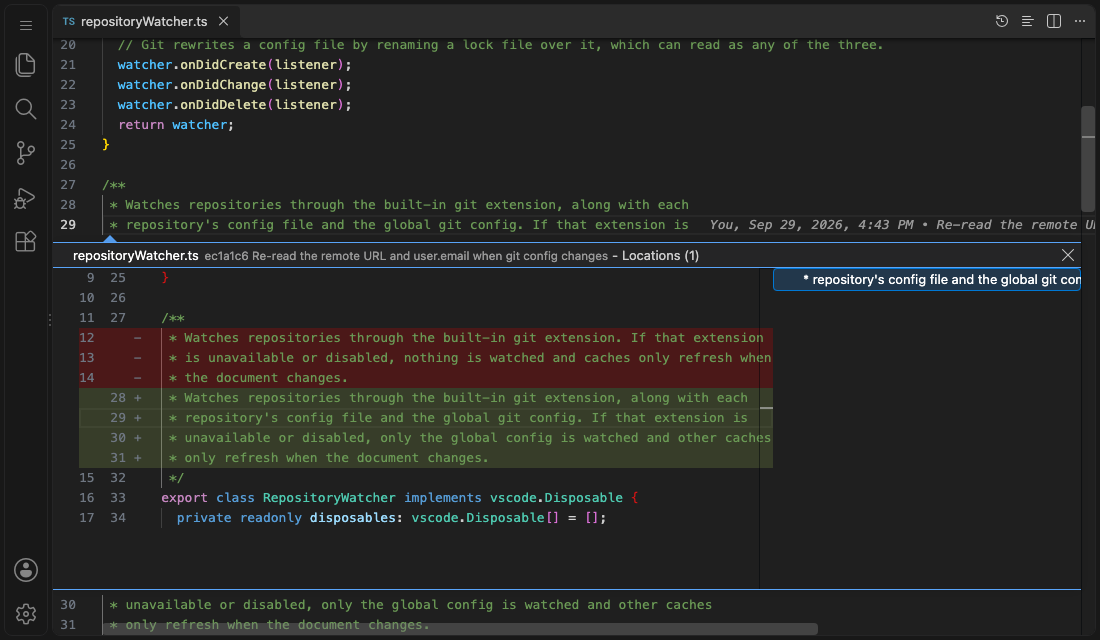
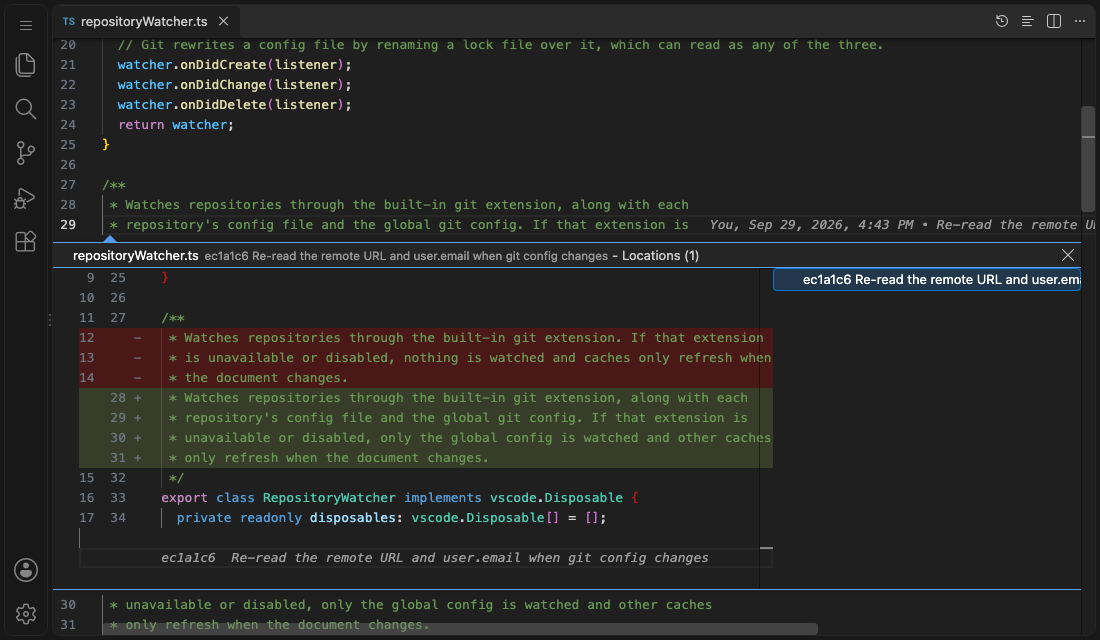
Name the commit in the change peek's list
The peek's list shows the text of each location's line, so the block now
ends with a footer line holding the commit's hash and subject, and the
location points at it. The peek then scrolls back to the block's start,
or to the hovered line when the block is taller than the peek.

Changed region(s): [[0.7418, 0.4062, 0.9582, 0.4688], [0.1545, 0.8438, 0.5255, 0.875], [0.5564, 0.8438, 0.6491, 0.875]]

diff --git a/src/peek/changePeek.ts b/src/peek/changePeek.ts
@@ -17,6 +17,8 @@ export interface ChangePeekRequest {
   focusNewLine: number;
   /** Shown after the file name in the peek's title. */
   description: string;
+  /** Shown under the block, and as the entry in the peek's list on the right. */
+  footer: string;
   fileName: string;
   languageId: string;
 }
@@ -28,7 +30,7 @@ export interface ChangePeekRequest {
  * of the lines without their +/- markers, highlighted as the file's language.
  */
 export class ChangePeek implements vscode.TextDocumentContentProvider, vscode.Disposable {
-  private readonly blocks = new Map<string, PeekLine[]>();
+  private readonly blocks = new Map<string, { lines: PeekLine[]; footer: string }>();
   private readonly disposables: vscode.Disposable[] = [];
   private readonly added = vscode.window.createTextEditorDecorationType({
     isWholeLine: true,
@@ -37,6 +39,10 @@ export class ChangePeek implements vscode.TextDocumentContentProvider, vscode.Di
   private readonly removed = vscode.window.createTextEditorDecorationType({
     isWholeLine: true,
     backgroundColor: new vscode.ThemeColor('diffEditor.removedLineBackground'),
+  });
+  private readonly footer = vscode.window.createTextEditorDecorationType({
+    color: new vscode.ThemeColor('descriptionForeground'),
+    fontStyle: 'italic',
   });
   private readonly gutter = vscode.window.createTextEditorDecorationType({
     before: { color: new vscode.ThemeColor('editorLineNumber.foreground'), margin: '0 1.5em 0 0' },
@@ -51,6 +57,7 @@ export class ChangePeek implements vscode.TextDocumentContentProvider, vscode.Di
       vscode.workspace.onDidCloseTextDocument((document) => this.blocks.delete(document.uri.toString())),
       this.added,
       this.removed,
+      this.footer,
       this.gutter,
     );
   }
@@ -61,7 +68,8 @@ export class ChangePeek implements vscode.TextDocumentContentProvider, vscode.Di
   }
 
   provideTextDocumentContent(uri: vscode.Uri): string {
-    return (this.blocks.get(uri.toString()) ?? []).map((line) => line.text).join('\n');
+    const block = this.blocks.get(uri.toString());
+    return block ? [...block.lines.map((line) => line.text), '', block.footer].join('\n') : '';
   }
 
   async show(request: ChangePeekRequest): Promise<void> {
@@ -75,7 +83,7 @@ export class ChangePeek implements vscode.TextDocumentContentProvider, vscode.Di
       path: `${request.description.replace(/\//g, '∕')}/${request.fileName}`,
       query: String(this.next++),
     });
-    this.blocks.set(uri.toString(), lines);
+    this.blocks.set(uri.toString(), { lines, footer: request.footer });
     const document = await vscode.workspace.openTextDocument(uri);
     try {
       await vscode.languages.setTextDocumentLanguage(document, request.languageId);
@@ -86,21 +94,37 @@ export class ChangePeek implements vscode.TextDocumentContentProvider, vscode.Di
       0,
       lines.findIndex((line) => line.newLine === request.focusNewLine),
     );
+    // The list on the right shows the text of the location's line, so the location is the footer, after a blank line.
+    const footerLine = lines.length + 1;
     await vscode.commands.executeCommand(
       'editor.action.peekLocations',
       request.sourceUri,
       new vscode.Position(request.sourceLine, 0),
-      [new vscode.Location(uri, new vscode.Position(focus, 0))],
+      [new vscode.Location(uri, new vscode.Position(footerLine, 0))],
       'peek',
     );
-    vscode.window.visibleTextEditors.forEach((editor) => this.decorate(editor));
+    for (const editor of vscode.window.visibleTextEditors) {
+      this.decorate(editor);
+      if (editor.document.uri.toString() === uri.toString()) {
+        // Opening at the footer scrolls the block's start out of view: show it from the top when the hovered
+        // line fits on the first screen, and center the hovered line otherwise.
+        const visible = editor.visibleRanges[0];
+        const height = visible ? visible.end.line - visible.start.line : 0;
+        if (focus < height) {
+          editor.revealRange(new vscode.Range(0, 0, 0, 0), vscode.TextEditorRevealType.AtTop);
+        } else {
+          editor.revealRange(new vscode.Range(focus, 0, focus, 0), vscode.TextEditorRevealType.InCenter);
+        }
+      }
+    }
   }
 
   private decorate(editor: vscode.TextEditor): void {
-    const lines = this.blocks.get(editor.document.uri.toString());
-    if (!lines) {
+    const block = this.blocks.get(editor.document.uri.toString());
+    if (!block) {
       return;
     }
+    const { lines } = block;
     // The block's own line numbers mean nothing; the gutter shows the file's instead.
     editor.options = { lineNumbers: vscode.TextEditorLineNumbersStyle.Off };
     const width = Math.max(...lines.map((line) => String(Math.max(line.oldLine ?? 0, line.newLine ?? 0)).length));
@@ -109,15 +133,19 @@ export class ChangePeek implements vscode.TextDocumentContentProvider, vscode.Di
       lines.flatMap((line, i) => (line.kind === kind ? [new vscode.Range(i, 0, i, 0)] : []));
     editor.setDecorations(this.added, rangesOf('add'));
     editor.setDecorations(this.removed, rangesOf('del'));
-    editor.setDecorations(
-      this.gutter,
-      lines.map((line, i) => ({
+    editor.setDecorations(this.footer, [new vscode.Range(lines.length + 1, 0, lines.length + 1, block.footer.length)]);
+    const gutterText = (line: PeekLine) => `${pad(line.oldLine)}${NBSP}${NBSP}${pad(line.newLine)}${NBSP}${MARKERS[line.kind]}`;
+    editor.setDecorations(this.gutter, [
+      ...lines.map((line, i) => ({
         range: new vscode.Range(i, 0, i, 0),
-        renderOptions: {
-          before: { contentText: `${pad(line.oldLine)}${NBSP}${NBSP}${pad(line.newLine)}${NBSP}${MARKERS[line.kind]}` },
-        },
+        renderOptions: { before: { contentText: gutterText(line) } },
       })),
-    );
+      // An empty gutter lines the footer up with the code.
+      {
+        range: new vscode.Range(lines.length + 1, 0, lines.length + 1, 0),
+        renderOptions: { before: { contentText: gutterText({ kind: 'context', text: '' }) } },
+      },
+    ]);
   }
 }
 

diff --git a/test/integration/fileBlame.test.ts b/test/integration/fileBlame.test.ts
@@ -100,7 +100,7 @@ describe('file blame', () => {
       peek,
       `docs: ${vscode.workspace.textDocuments.map((d) => d.uri.toString()).join(', ')}; editors: ${vscode.window.visibleTextEditors.map((e) => e.document.uri.toString()).join(', ')}`,
     );
-    assert.strictEqual(peek.document.getText(), 'first line\nsecond line');
+    assert.strictEqual(peek.document.getText(), `first line\nsecond line\n\n${sha.slice(0, 7)}  Add the file blame fixture`);
     assert.strictEqual(peek.document.languageId, 'plaintext');
     await vscode.commands.executeCommand('closeReferenceSearch');
   });

diff --git a/src/extension.ts b/src/extension.ts
@@ -563,6 +563,7 @@ export function activate(context: vscode.ExtensionContext): void {
           hunk,
           focusNewLine: line + 1,
           description: `${sha.slice(0, 7)} ${emojify(commit?.summary ?? '')}`.trim(),
+          footer: `${sha.slice(0, 7)}  ${emojify(commit?.summary ?? '')}`.trimEnd(),
           fileName: path.posix.basename(relativePath),
           languageId: editor.document.languageId,
         });

diff --git a/CHANGELOG.md b/CHANGELOG.md
@@ -5,7 +5,7 @@
 - Added **gitmoji**: with `gitBlameSolo.renderEmoji` on, shortcodes such as `:sparkles:` and `:bug:` in commit messages show as ✨ and 🐛 in the annotation, hover, git log, and commit details. Off by default.
 - Added **Git Blame Solo: Copy Commit Message**, which copies the full message of the current line's commit. The blame hover has a **Copy message** button next to the hash.
 - The hover of an uncommitted line shows how many lines changed since the last commit, unsaved edits included. **Show change inline** opens VS Code's change peek at that line, and **Open in Diff Editor** compares the file with its last commit.
-- Added **Show change inline** to the hover's **What changed**: it opens the line's changed block in a peek under the line, with removed lines on red, added lines on green, their old and new line numbers, and the file's syntax highlighting. The hover's links now sit next to **What changed**, above the diff, so a long diff doesn't push them out of view.
+- Added **Show change inline** to the hover's **What changed**: it opens the line's changed block in a peek under the line, with removed lines on red, added lines on green, their old and new line numbers, and the file's syntax highlighting. The commit's hash and subject are in the peek's list and under the block. The hover's links now sit next to **What changed**, above the diff, so a long diff doesn't push them out of view.
 - The hover's **What changed** shows only the block of changed lines the hovered line belongs to. Before, `git diff` merged changes a few lines apart into one hunk, so a hover could show unrelated changes around the line.
 - Added an **unpushed commit** marker: with `gitBlameSolo.showUnpushed` on, commits that no remote branch contains yet are marked **Not pushed yet** in the hover and get a **not pushed** badge in the git log. Off by default.
 

diff --git a/README.md b/README.md
@@ -114,7 +114,7 @@ By default the popup only opens over the annotation, so hovering your code for o
 
 ![Hover popup with commit details and the changed block](docs/images/hover.png)
 
-**Show change inline** opens the same block right under the line, in a peek like VS Code's own for local changes: removed lines on red and added lines on green, with their line numbers before and after the commit, highlighted as the file's language.
+**Show change inline** opens the same block right under the line, in a peek like VS Code's own for local changes: removed lines on red and added lines on green, with their line numbers before and after the commit, highlighted as the file's language. The commit's hash and subject head the list beside the block and sit under it.
 
 ![A commit's change shown inline under the line, with removed and added lines and their old and new line numbers](docs/images/change-peek.png)
 
